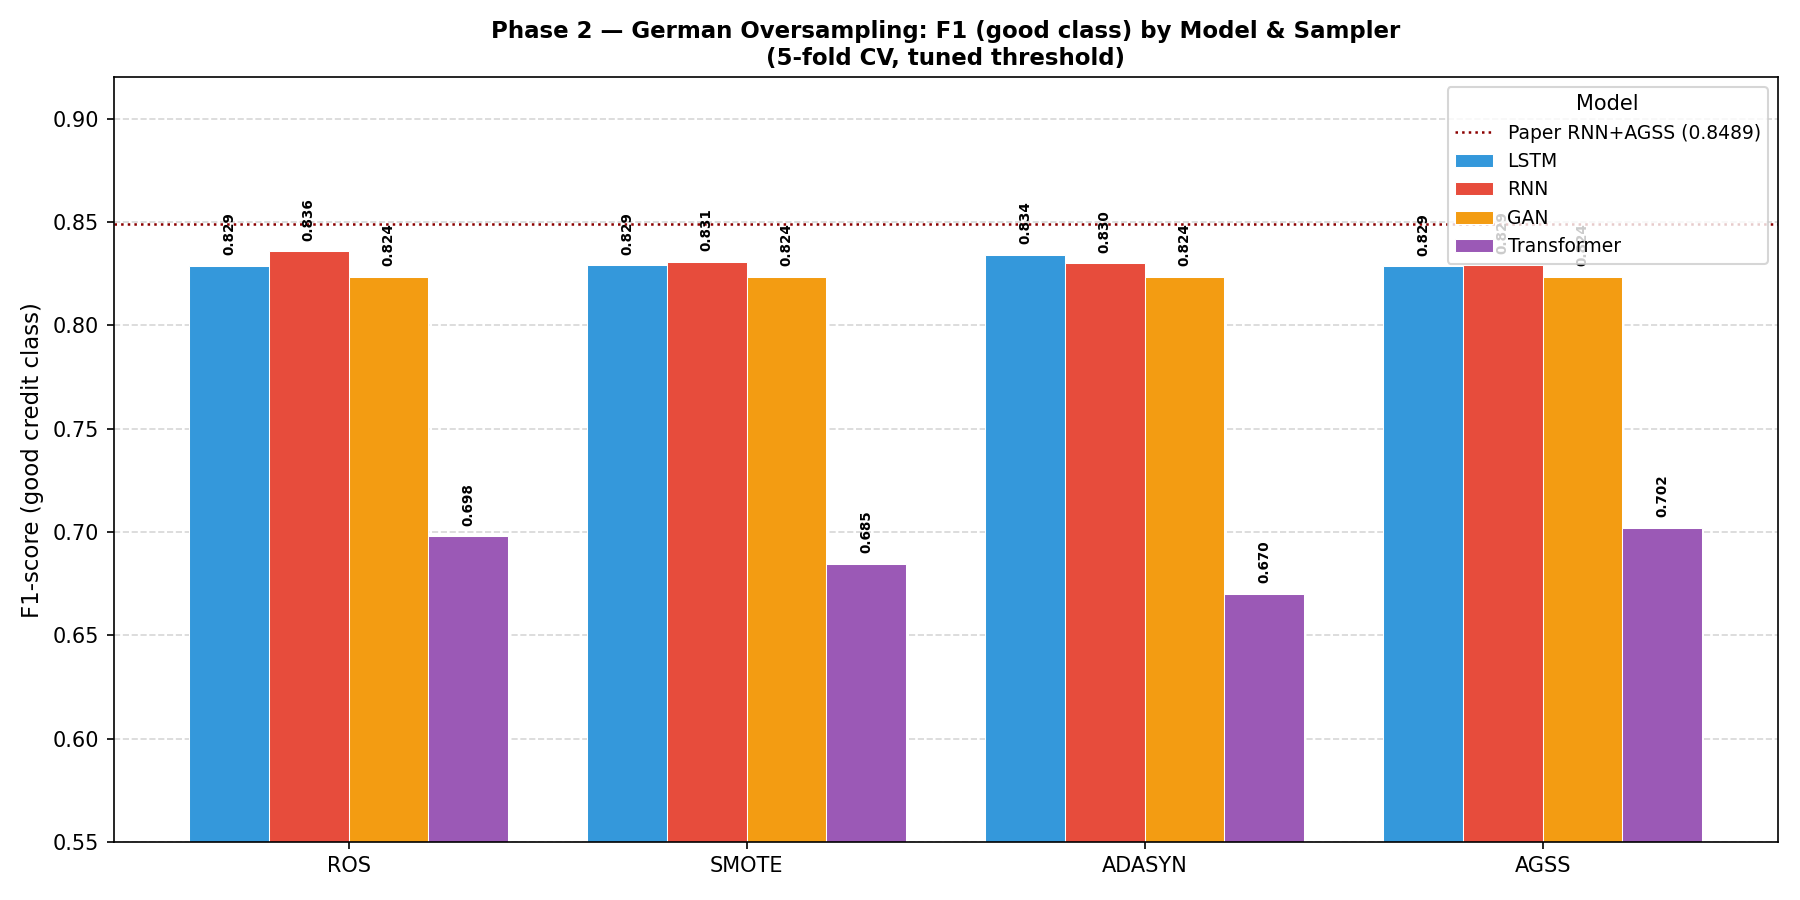
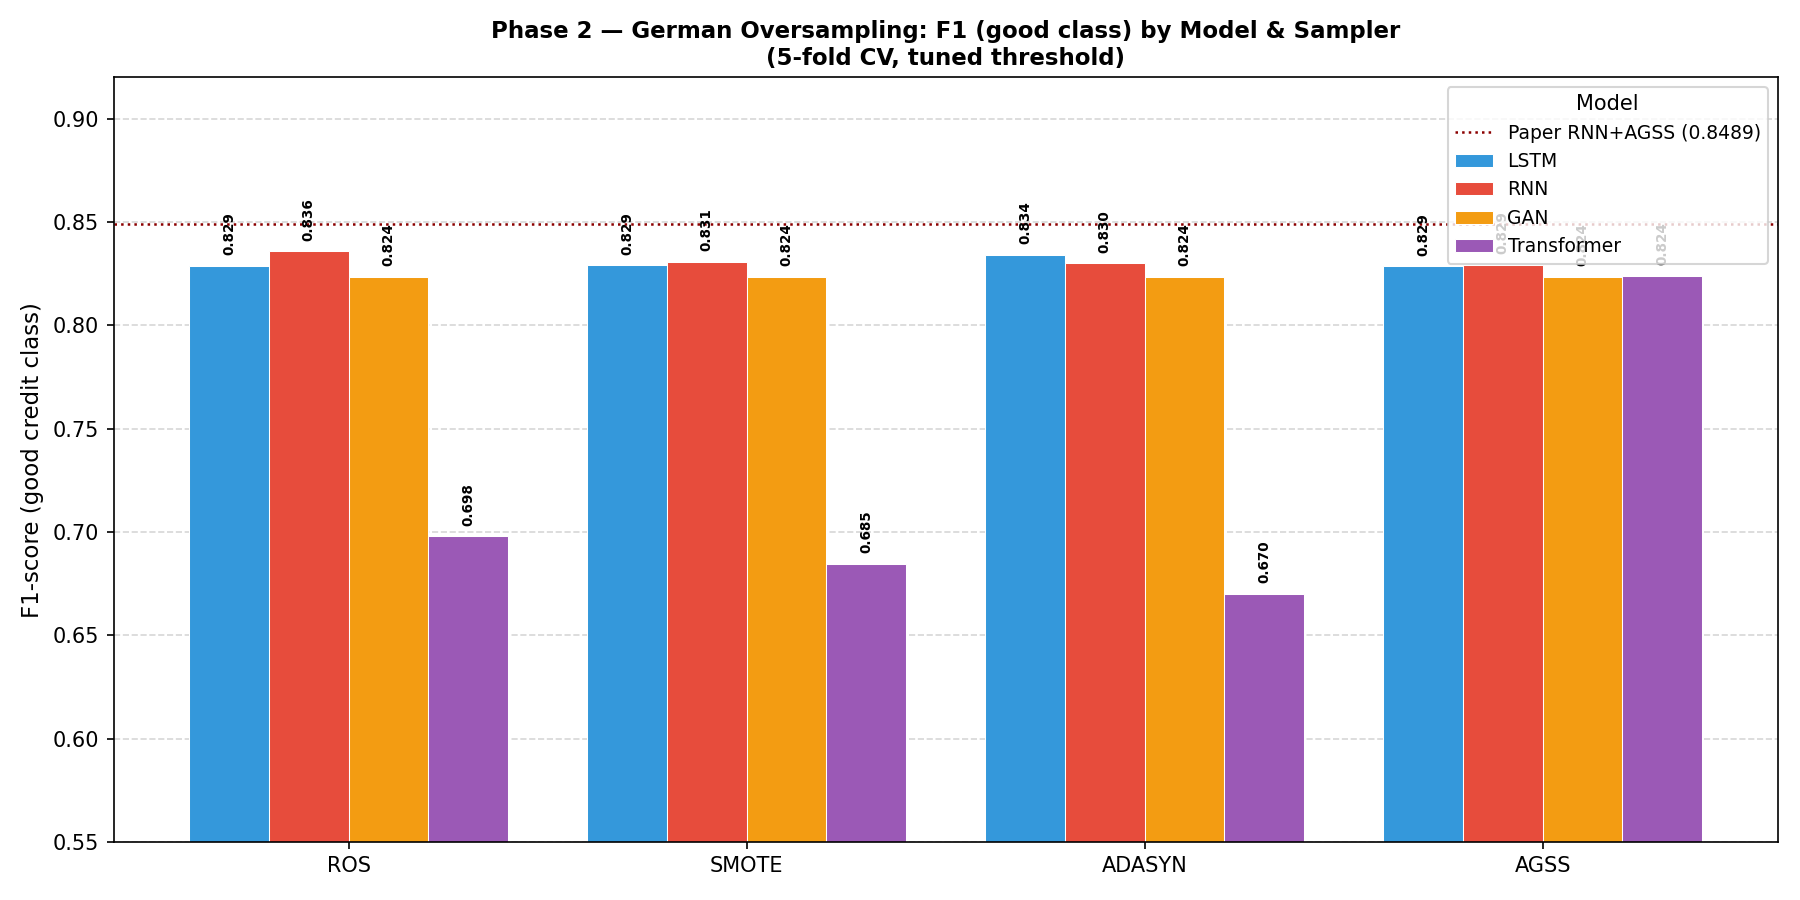
Update figures with tuned Transformer German results; add tuning grid chart

Changed region(s): [[0.9022, 0.28, 0.9644, 0.5911]]

diff --git a/src/visualize.py b/src/visualize.py
@@ -480,6 +480,40 @@ def fig_phase2_under_all_models():
     plt.savefig(out, dpi=150); plt.close(); print(f"Saved: {out}")
 
 
+def fig_transformer_german_tuning():
+    path = os.path.join(RESULTS_DIR, "transformer_german_grid.csv")
+    if not os.path.exists(path):
+        print(f"Skipping Transformer German tuning chart — {path} not found.")
+        return
+    df = pd.read_csv(path).sort_values("f1_good", ascending=False)
+
+    labels = [f"d={int(r.d_model)}\ne={int(r.epochs)}\nlr={r.lr:.0e}" for _, r in df.iterrows()]
+    colors = ["#9B59B6" if i == 0 else "#C39BD3" for i in range(len(df))]
+
+    fig, ax = plt.subplots(figsize=(12, 5))
+    bars = ax.bar(range(len(df)), df["f1_good"], color=colors, edgecolor="white", linewidth=0.5)
+    for bar, v in zip(bars, df["f1_good"]):
+        ax.text(bar.get_x() + bar.get_width()/2, v + 0.003, f"{v:.4f}",
+                ha="center", va="bottom", fontsize=8, fontweight="bold")
+
+    ax.axhline(0.8489, color="darkred", linestyle=":", linewidth=1.2, label="Paper RNN+AGSS (0.8489)")
+    ax.axhline(0.7021, color="gray", linestyle="--", linewidth=1.0, label="Baseline d_model=32 (0.7021)")
+    ax.set_xticks(range(len(df)))
+    ax.set_xticklabels(labels, fontsize=8)
+    ax.set_ylim(0.65, 0.90)
+    ax.set_ylabel("F1-score (good credit class)", fontsize=11)
+    ax.set_title("Transformer German Tuning — d_model Grid Search (AGSS oversampling, 5-fold CV)\n"
+                 "Best: d_model=128, epochs=300, lr=5e-4 → F1=0.8241 (gap: 14.7% → 2.5%)",
+                 fontsize=11, fontweight="bold")
+    ax.legend(fontsize=9)
+    ax.yaxis.grid(True, linestyle="--", alpha=0.5)
+    ax.set_axisbelow(True)
+    plt.tight_layout()
+    os.makedirs(FIGURES_DIR, exist_ok=True)
+    out = os.path.join(FIGURES_DIR, "fig_transformer_german_tuning.png")
+    plt.savefig(out, dpi=150); plt.close(); print(f"Saved: {out}")
+
+
 if __name__ == "__main__":
     df = load()
     fig_metrics_bar(df)
@@ -498,5 +532,6 @@ if __name__ == "__main__":
     fig_phase1_under_all_models()
     fig_phase2_over_all_models()
     fig_phase2_under_all_models()
+    fig_transformer_german_tuning()
 
     print("\nAll visualizations saved to figures/")
